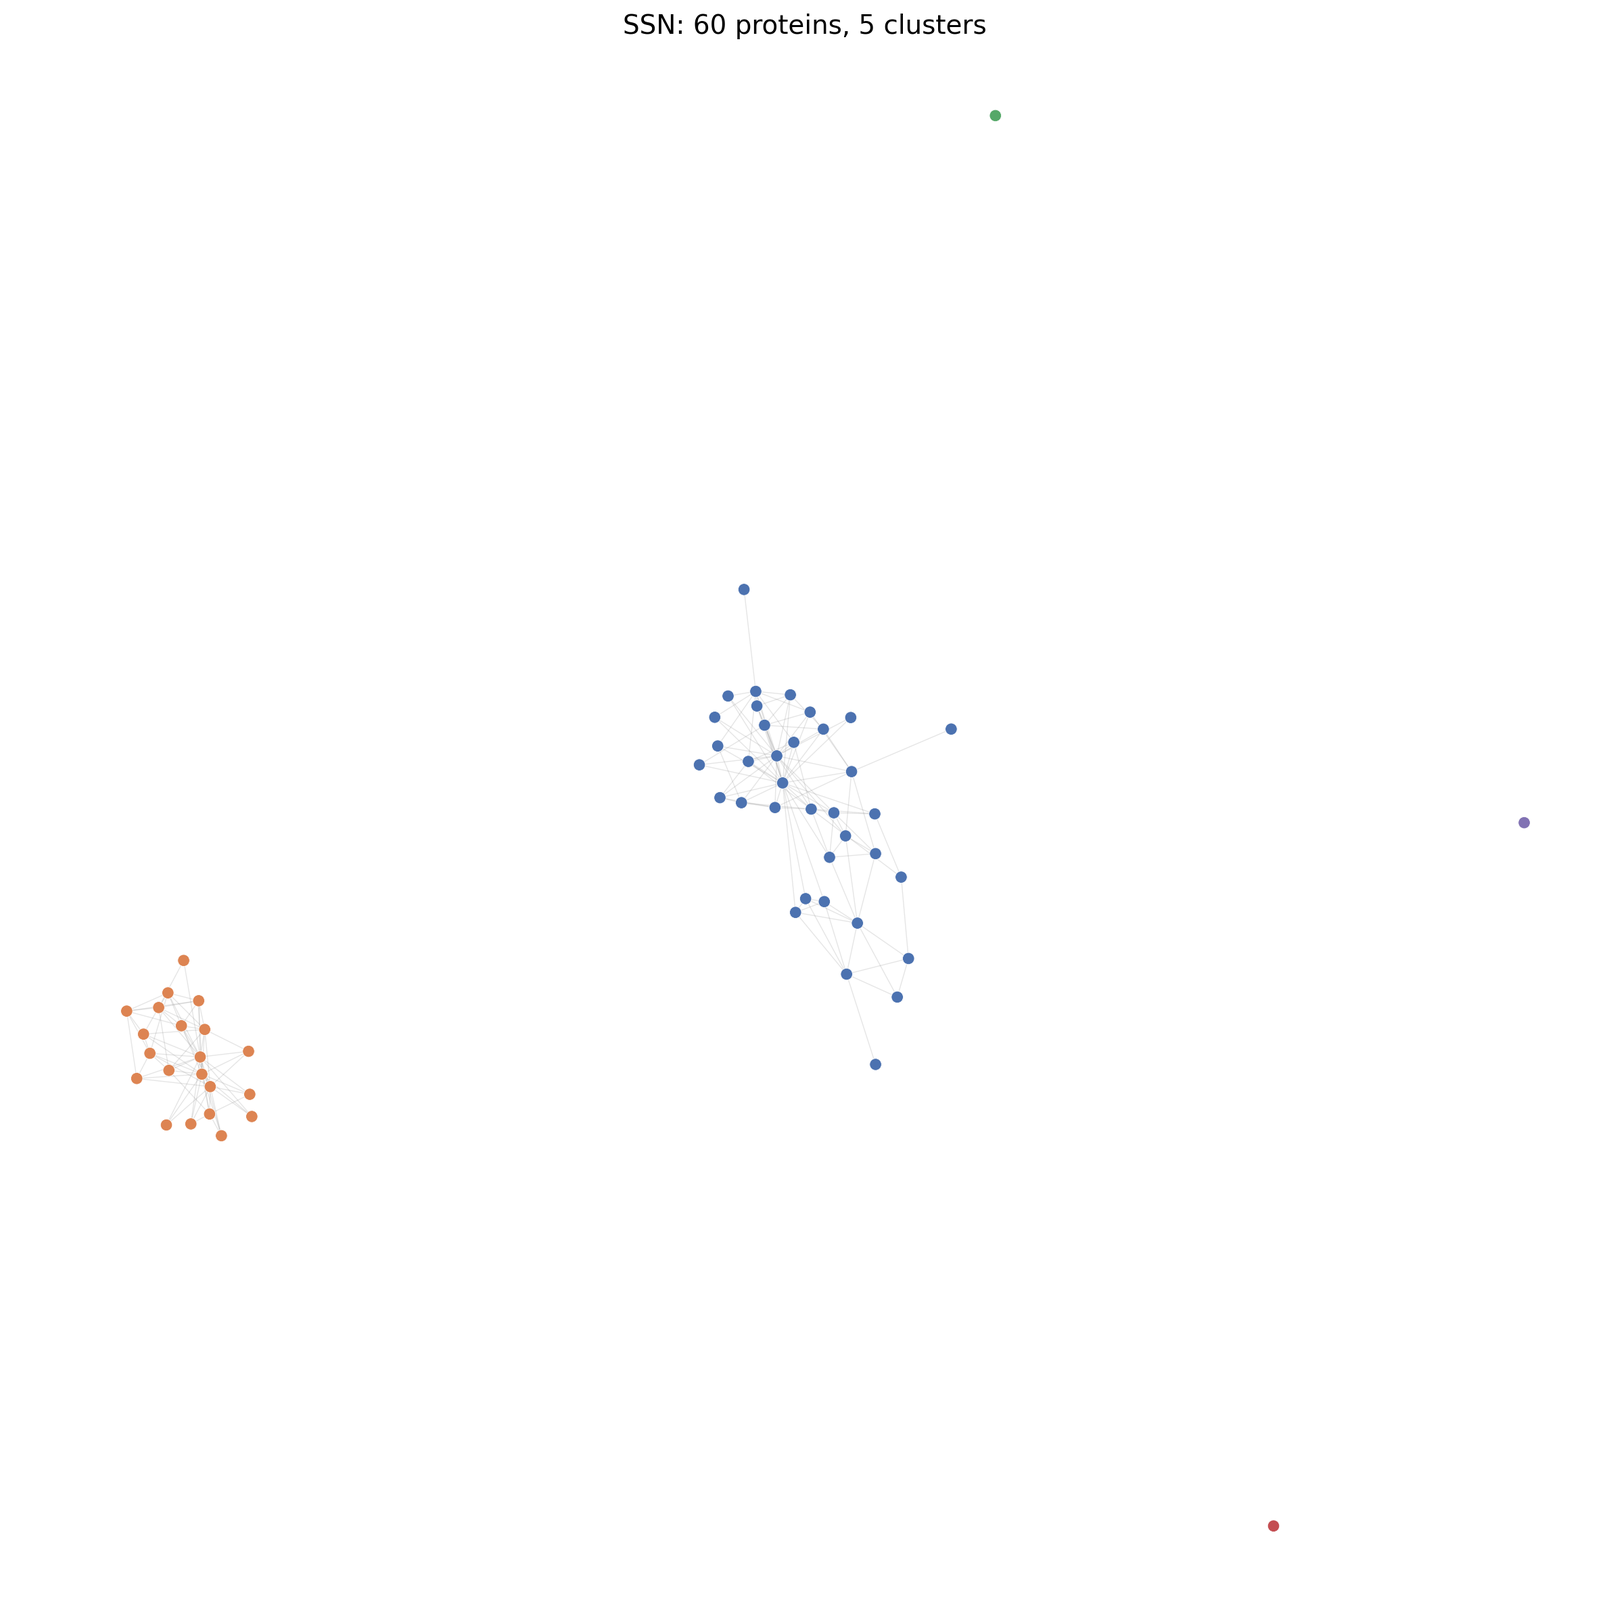
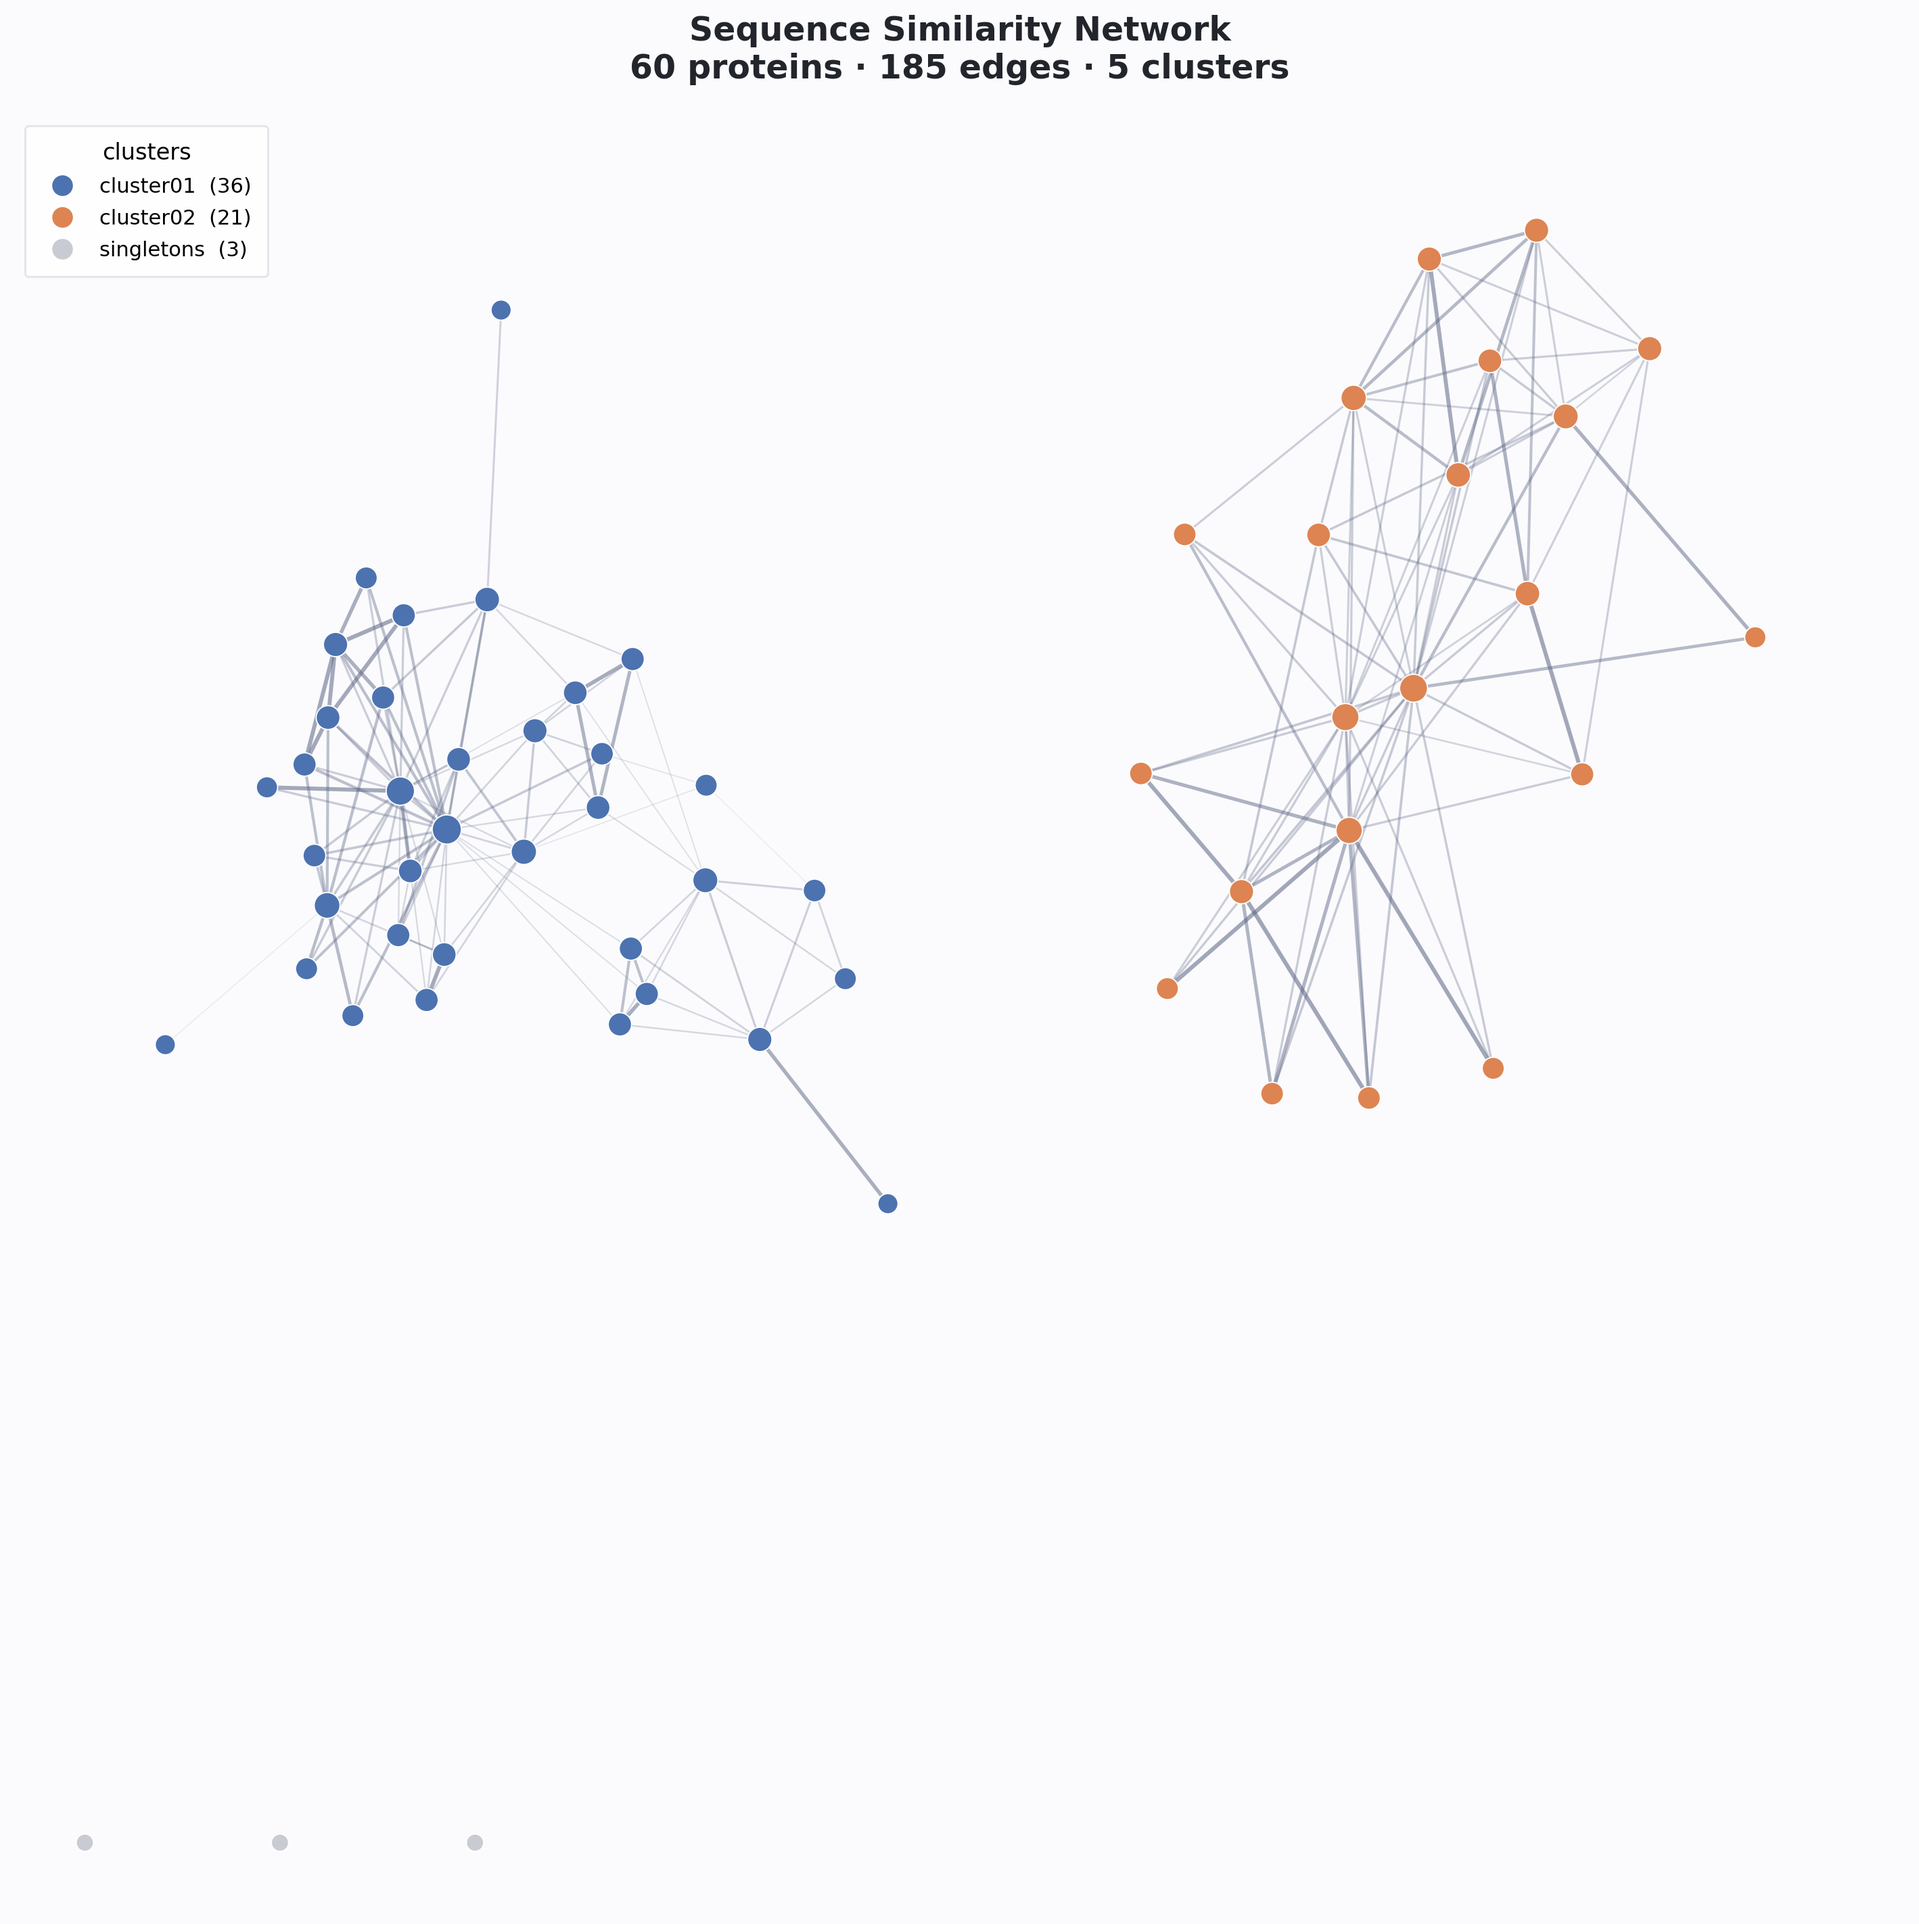
Prettier visualisations + fix author name
- Component-packed layout so clusters stay compact (no empty canvas).
- Node size scales with connectivity; edges shaded/weighted by % identity.
- Cluster legend with sizes; singletons and overflow grouped in grey.
- Polished interactive HTML: forceAtlas2 physics, hover highlight, shadows,
  navigation buttons, dark canvas.
- Nicer sweep plot styling.
- Author name corrected to Jacob Gonzalez.

diff --git a/src/proteinssn/visualize.py b/src/proteinssn/visualize.py
@@ -2,26 +2,77 @@
 
 from __future__ import annotations
 
+import math
 import sys
 
 from .network import NetworkResult, cluster_sizes
 
-# A colourblind-friendly palette; clusters beyond it fall back to grey.
+# A modern, reasonably colourblind-aware palette. Clusters beyond it are grey.
 PALETTE = [
     "#4C72B0", "#DD8452", "#55A868", "#C44E52", "#8172B3",
-    "#937860", "#DA8BC3", "#8C8C8C", "#CCB974", "#64B5CD",
-    "#1f77b4", "#ff7f0e", "#2ca02c", "#d62728", "#9467bd",
+    "#EEC643", "#DA8BC3", "#00A6A6", "#B07AA1", "#5FA2CE",
+    "#F28E2B", "#59A14F", "#E15759", "#9C755F", "#76B7B2",
 ]
-GREY = "#D0D0D0"
+GREY = "#C9CBD3"
+BG = "#FBFBFD"          # near-white canvas
+EDGE_RGB = (0.36, 0.40, 0.52)  # slate, alpha applied per-edge
 
 
 def _cluster_colors(result: NetworkResult, top_n: int) -> dict[str, str]:
-    """Assign a colour to the `top_n` biggest clusters; rest are grey."""
-    ranked = [label for label, _ in cluster_sizes(result)]
-    colors = {}
-    for i, label in enumerate(ranked):
-        colors[label] = PALETTE[i % len(PALETTE)] if i < top_n else GREY
+    """Colour the `top_n` biggest real clusters; singletons/overflow stay grey."""
+    colors, i = {}, 0
+    for label, size in cluster_sizes(result):
+        if size > 1 and i < top_n:
+            colors[label] = PALETTE[i % len(PALETTE)]
+            i += 1
+        else:
+            colors[label] = GREY
     return colors
+
+
+def _packed_layout(graph, seed: int) -> dict:
+    """Lay out each connected component, then shelf-pack them into a tidy block.
+
+    Plain ``spring_layout`` lets disconnected clusters drift far apart, leaving
+    most of the canvas empty. Here each component is laid out on its own and
+    scaled by ``sqrt(size)``, then packed left-to-right / top-to-bottom so the
+    figure stays compact and every cluster reads clearly.
+    """
+    import networkx as nx
+
+    components = sorted(nx.connected_components(graph), key=len, reverse=True)
+    gap = 1.6
+    boxes = []  # (positions dict, radius)
+    for comp in components:
+        if len(comp) == 1:
+            node = next(iter(comp))
+            boxes.append(({node: (0.0, 0.0)}, 0.5))
+            continue
+        sub = graph.subgraph(comp)
+        pos = nx.spring_layout(sub, seed=seed, k=1.4 / math.sqrt(len(comp)),
+                               iterations=80)
+        cx = sum(p[0] for p in pos.values()) / len(pos)
+        cy = sum(p[1] for p in pos.values()) / len(pos)
+        maxr = max(math.hypot(x - cx, y - cy) for x, y in pos.values()) or 1.0
+        scale = math.sqrt(len(comp))
+        pos = {n: ((x - cx) / maxr * scale, (y - cy) / maxr * scale)
+               for n, (x, y) in pos.items()}
+        boxes.append((pos, scale))
+
+    widths = [2 * r + gap for _, r in boxes]
+    target = max(max(widths), math.sqrt(sum(w * w for w in widths)) * 1.5)
+
+    positions: dict = {}
+    x = y = row_h = 0.0
+    for (pos, r), w in zip(boxes, widths):
+        if x > 1e-9 and x + w > target:
+            x, y, row_h = 0.0, y - row_h, 0.0
+        cx, cy = x + w / 2, y - w / 2
+        for n, (px, py) in pos.items():
+            positions[n] = (cx + px, cy + py)
+        x += w
+        row_h = max(row_h, w)
+    return positions
 
 
 def static_plot(
@@ -30,12 +81,13 @@ def static_plot(
     top_n: int = 14,
     max_nodes: int = 3000,
     seed: int = 42,
-    dpi: int = 200,
+    dpi: int = 220,
 ) -> bool:
-    """Spring-layout PNG/SVG coloured by cluster. Returns False if skipped."""
+    """Publication-style PNG/SVG coloured by cluster. Returns False if skipped."""
     import matplotlib
     matplotlib.use("Agg")
     import matplotlib.pyplot as plt
+    from matplotlib.lines import Line2D
     import networkx as nx
 
     graph = result.graph
@@ -51,25 +103,98 @@ def static_plot(
         return False
 
     colors = _cluster_colors(result, top_n)
+    pos = _packed_layout(graph, seed)
+
+    # Node size grows (gently) with connectivity.
+    deg = dict(graph.degree())
+    node_size = [70 + 26 * math.sqrt(deg[n]) for n in graph.nodes()]
     node_colors = [colors[result.clusters[n]] for n in graph.nodes()]
 
-    pos = nx.spring_layout(graph, seed=seed, k=None)
-    fig, ax = plt.subplots(figsize=(12, 12))
-    nx.draw_networkx_edges(graph, pos, ax=ax, alpha=0.25, width=0.5,
-                           edge_color="#999999")
+    # Edge shade/width scale with % identity.
+    idents = [d.get("pident", 100.0) for *_e, d in graph.edges(data=True)]
+    lo, hi = (min(idents), max(idents)) if idents else (0.0, 100.0)
+    span = (hi - lo) or 1.0
+    edge_colors, edge_widths = [], []
+    for *_e, d in graph.edges(data=True):
+        t = (d.get("pident", 100.0) - lo) / span
+        edge_colors.append((*EDGE_RGB, 0.12 + 0.45 * t))
+        edge_widths.append(0.4 + 1.6 * t)
+
+    fig, ax = plt.subplots(figsize=(13, 13))
+    fig.patch.set_facecolor(BG)
+    ax.set_facecolor(BG)
+
+    nx.draw_networkx_edges(graph, pos, ax=ax, edge_color=edge_colors,
+                           width=edge_widths)
     nx.draw_networkx_nodes(graph, pos, ax=ax, node_color=node_colors,
-                           node_size=40, linewidths=0.3, edgecolors="white")
+                           node_size=node_size, linewidths=0.6,
+                           edgecolors="white")
+
+    # Legend: biggest real clusters, then singletons / overflow grouped in grey.
+    multi = [(label, size) for label, size in cluster_sizes(result) if size > 1]
+    shown = multi[:top_n]
+
+    def _handle(color, text):
+        return Line2D([0], [0], marker="o", linestyle="", markerfacecolor=color,
+                      markeredgecolor="white", markersize=11, label=text)
+
+    handles = [_handle(colors[label], f"{label}  ({size})")
+               for label, size in shown]
+    extra = len(multi) - len(shown)
+    if extra > 0:
+        handles.append(_handle(GREY, f"+{extra} more clusters"))
+    if result.singletons:
+        handles.append(_handle(GREY, f"singletons  ({len(result.singletons)})"))
+    legend = ax.legend(handles=handles, loc="upper left", frameon=True,
+                       fontsize=10, title="clusters", title_fontsize=11,
+                       borderpad=0.8, labelspacing=0.6)
+    legend.get_frame().set_edgecolor("#DfE1E8")
+    legend.get_frame().set_facecolor("white")
+
     ax.set_title(
-        f"SSN: {graph.number_of_nodes()} proteins, "
+        f"Sequence Similarity Network\n"
+        f"{graph.number_of_nodes()} proteins · {graph.number_of_edges()} edges · "
         f"{result.n_clusters} clusters",
-        fontsize=14,
+        fontsize=16, fontweight="bold", color="#22252B", pad=18,
     )
+    ax.margins(0.04)
     ax.axis("off")
     fig.tight_layout()
-    fig.savefig(path, dpi=dpi, bbox_inches="tight")
+    fig.savefig(path, dpi=dpi, bbox_inches="tight", facecolor=BG)
     plt.close(fig)
     print(f"  static network   -> {path}", file=sys.stderr)
     return True
+
+
+_INTERACTIVE_OPTIONS = """
+{
+  "nodes": {
+    "borderWidth": 2,
+    "borderWidthSelected": 4,
+    "color": { "border": "#ffffff", "highlight": { "border": "#22252B" } },
+    "shadow": { "enabled": true, "size": 12, "x": 0, "y": 2,
+                "color": "rgba(0,0,0,0.20)" },
+    "font": { "color": "#e8e8ef", "size": 12, "face": "Helvetica" }
+  },
+  "edges": {
+    "color": { "color": "#7c8296", "opacity": 0.5,
+               "highlight": "#ffd166", "hover": "#ffd166" },
+    "smooth": { "type": "continuous", "roundness": 0.15 },
+    "scaling": { "min": 0.4, "max": 5 }
+  },
+  "interaction": { "hover": true, "tooltipDelay": 80,
+                   "hideEdgesOnDrag": true, "navigationButtons": true },
+  "physics": {
+    "solver": "forceAtlas2Based",
+    "forceAtlas2Based": { "gravitationalConstant": -60,
+                          "centralGravity": 0.008,
+                          "springLength": 110, "springConstant": 0.08,
+                          "damping": 0.5, "avoidOverlap": 0.6 },
+    "stabilization": { "iterations": 220 },
+    "minVelocity": 0.6
+  }
+}
+"""
 
 
 def interactive_plot(
@@ -102,20 +227,23 @@ def interactive_plot(
         return False
 
     colors = _cluster_colors(result, top_n)
-    net = Network(height="800px", width="100%", bgcolor="#ffffff",
-                  font_color="#222222", notebook=False, cdn_resources="in_line")
-    net.barnes_hut(gravity=-8000, spring_length=120)
+    deg = dict(graph.degree())
+    net = Network(height="100vh", width="100%", bgcolor="#12141C",
+                  font_color="#e8e8ef", notebook=False, cdn_resources="in_line")
+    net.set_options(_INTERACTIVE_OPTIONS)
 
     for node in graph.nodes():
         cluster = result.clusters[node]
         net.add_node(
-            node, label=node, title=f"{node}\n{cluster}",
-            color=colors[cluster], size=12,
+            node, label=node,
+            title=f"{node}\ncluster: {cluster}\nconnections: {deg[node]}",
+            color=colors[cluster],
+            size=10 + 3.0 * math.sqrt(deg[node]),
         )
     for u, v, data in graph.edges(data=True):
-        title = f"{data['pident']:.1f}% id"
+        title = f"{data['pident']:.1f}% identity"
         if "evalue" in data:
-            title += f", e={data['evalue']:.1e}"
+            title += f"\ne-value: {data['evalue']:.1e}"
         net.add_edge(u, v, value=float(data["pident"]), title=title)
 
     net.save_graph(path)
@@ -123,28 +251,38 @@ def interactive_plot(
     return True
 
 
-def sweep_plot(rows: list[dict], path: str, dpi: int = 200) -> None:
+def sweep_plot(rows: list[dict], path: str, dpi: int = 220) -> None:
     """Plot threshold-sweep results: #clusters and largest cluster vs identity."""
     import matplotlib
     matplotlib.use("Agg")
     import matplotlib.pyplot as plt
 
     ident = [r["identity"] for r in rows]
-    fig, ax1 = plt.subplots(figsize=(8, 5))
-    ax1.plot(ident, [r["n_clusters"] for r in rows], "-o", color="#4C72B0",
-             label="clusters")
-    ax1.set_xlabel("identity threshold (%)")
-    ax1.set_ylabel("number of clusters", color="#4C72B0")
-    ax1.tick_params(axis="y", labelcolor="#4C72B0")
+    fig, ax1 = plt.subplots(figsize=(8.5, 5))
+    fig.patch.set_facecolor(BG)
+    ax1.set_facecolor(BG)
+
+    c1, c2 = "#4C72B0", "#C44E52"
+    ax1.plot(ident, [r["n_clusters"] for r in rows], "-o", color=c1,
+             lw=2.2, ms=7, label="clusters")
+    ax1.set_xlabel("identity threshold (%)", fontsize=11)
+    ax1.set_ylabel("number of clusters", color=c1, fontsize=11)
+    ax1.tick_params(axis="y", labelcolor=c1)
+    ax1.grid(True, alpha=0.25, linestyle="--")
 
     ax2 = ax1.twinx()
-    ax2.plot(ident, [r["largest_cluster"] for r in rows], "-s", color="#C44E52",
-             label="largest cluster")
-    ax2.set_ylabel("size of largest cluster", color="#C44E52")
-    ax2.tick_params(axis="y", labelcolor="#C44E52")
+    ax2.plot(ident, [r["largest_cluster"] for r in rows], "-s", color=c2,
+             lw=2.2, ms=7, label="largest cluster")
+    ax2.set_ylabel("size of largest cluster", color=c2, fontsize=11)
+    ax2.tick_params(axis="y", labelcolor=c2)
 
-    ax1.set_title("Threshold sweep")
+    for spine in ("top",):
+        ax1.spines[spine].set_visible(False)
+        ax2.spines[spine].set_visible(False)
+
+    ax1.set_title("Threshold sweep", fontsize=14, fontweight="bold",
+                  color="#22252B", pad=12)
     fig.tight_layout()
-    fig.savefig(path, dpi=dpi, bbox_inches="tight")
+    fig.savefig(path, dpi=dpi, bbox_inches="tight", facecolor=BG)
     plt.close(fig)
     print(f"  sweep plot -> {path}", file=sys.stderr)

diff --git a/src/proteinssn/network.py b/src/proteinssn/network.py
@@ -2,7 +2,7 @@
 
 The filtering / cleaning / clustering logic is adapted from SSNetworks by
 Miguel M. Sandin (https://github.com/MiguelMSandin/SSNetworks, GPL-3.0),
-reworked here for DIAMOND output and the proteinssn CLI.
+reworked by Jacob Gonzalez for DIAMOND output and the proteinssn CLI.
 
 DIAMOND is run with output format 6 and these 11 columns:
 

diff --git a/README.md b/README.md
@@ -118,7 +118,7 @@ The core SSN logic here — the all-vs-all comparison, reciprocal-hit cleaning,
 threshold-based edge filtering and connected-component clustering — is adapted
 from **[SSNetworks](https://github.com/MiguelMSandin/SSNetworks)** by
 **Miguel M. Sandin**. Some of the code was taken from that repository and then
-adapted by me (Jacobo González) to:
+adapted by me (Jacob Gonzalez) to:
 
 - use **DIAMOND** instead of BLAST for the all-vs-all search (much faster on
   large protein sets),
